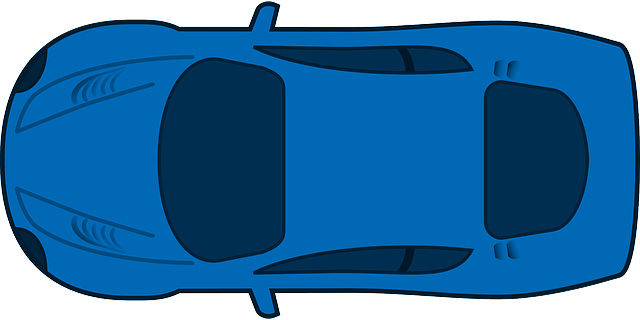
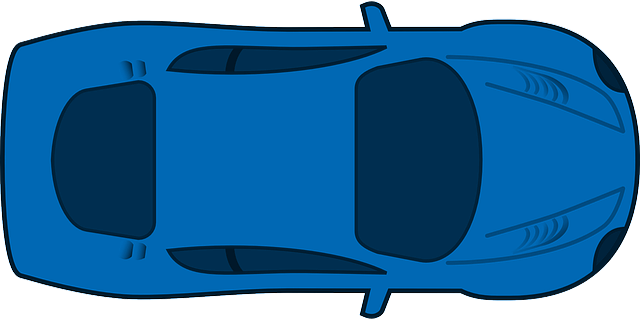
Adding lines to make movement appear as forwards
Adding large, road-coloured boxes to the road, to give the illusion of moving forwards quickly.  Also rotated enemy cars to look like the player is driving past them

diff --git a/2D racer game.py b/2D racer game.py
@@ -26,6 +26,11 @@ bottombarrier = [0, 1280, 280, 300]
 divider1 = [0, 1280, 70, 90]
 divider2 = [0, 1280, 140, 160]
 divider3 = [0, 1280, 210, 230]
+moveline1 = [0, 128, 0, 300]
+moveline2 = [256, 384, 0, 300]
+moveline3 = [512, 640, 0, 300]
+moveline4 = [768, 896, 0, 300]
+moveline5 = [1024, 1152, 0, 300]
 print("2.3, lane constants")
 #The clock for counting the fps
 clock = pg.time.Clock()
@@ -138,11 +143,17 @@ umcar = Objects(car2)
 lmcar = Objects(car3)
 bottomcar = Objects(car4)
 playercar = Objects(pcar)
+movelineA = Objects(moveline1)
+movelineB = Objects(moveline2)
+movelineC = Objects(moveline3)
+movelineD = Objects(moveline4)
+movelineE = Objects(moveline5)
 #Grouping the objects to have them separate for drawing/collision checking
 barriers = [upperbarrier, lowerbarrier]
 roadlines = [line1, line2, line3]
 cars = [topcar1, topcar2, umcar, lmcar, bottomcar]
 player = [playercar]
+moveillusion = [movelineA, movelineB, movelineC, movelineD, movelineE]
 
 
 #Difficulty and theme selection using easygui
@@ -216,6 +227,8 @@ while not quitgame:
         x.drawobjects(screen, colour=(theme["barrier"]), type=("road"))
     for x in roadlines:
         x.drawobjects(screen, colour=(theme["lines"]), type=("road"))
+    for x in moveillusion:
+        x.drawobjects(screen, colour=(theme["lane"]), type=("road"))
     for x in cars:
         x.drawobjects(screen, colour=(theme["car"]), type=("vehicle"))
     for x in player:
